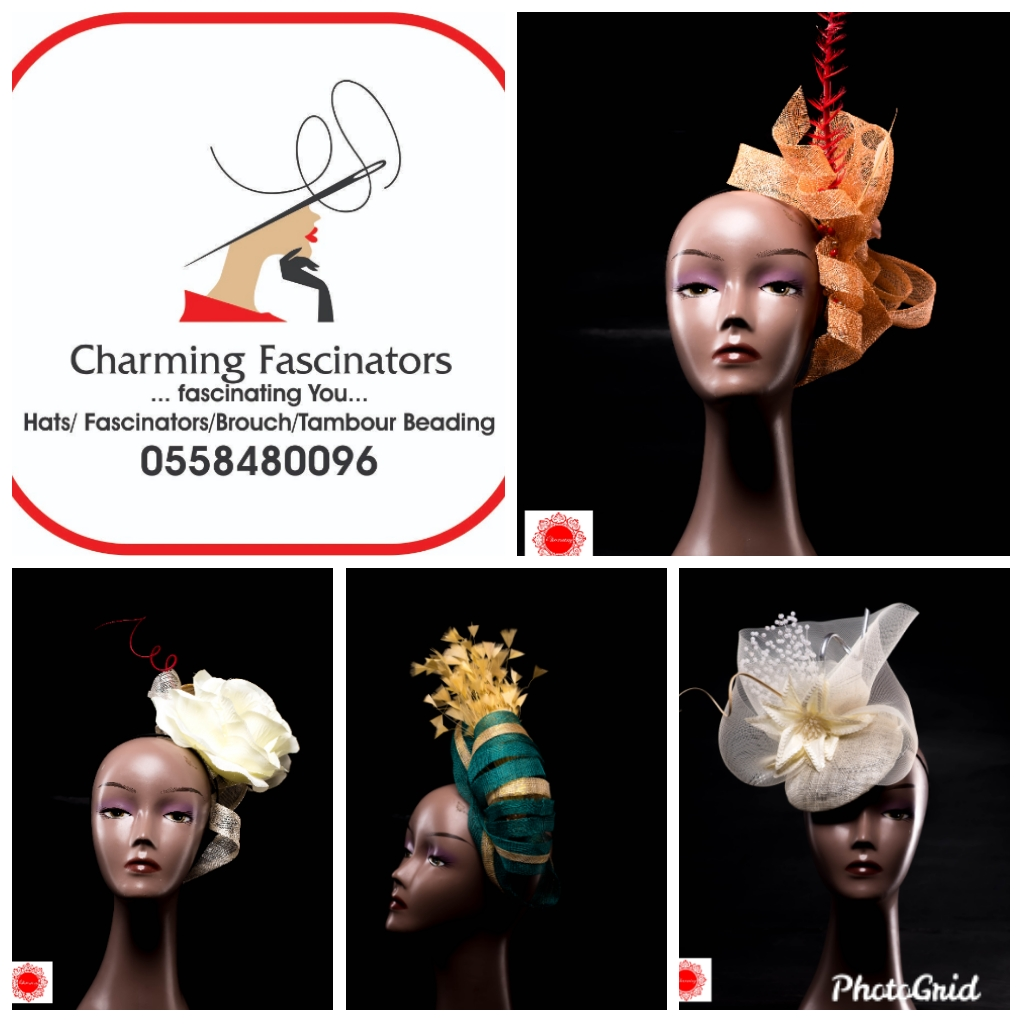
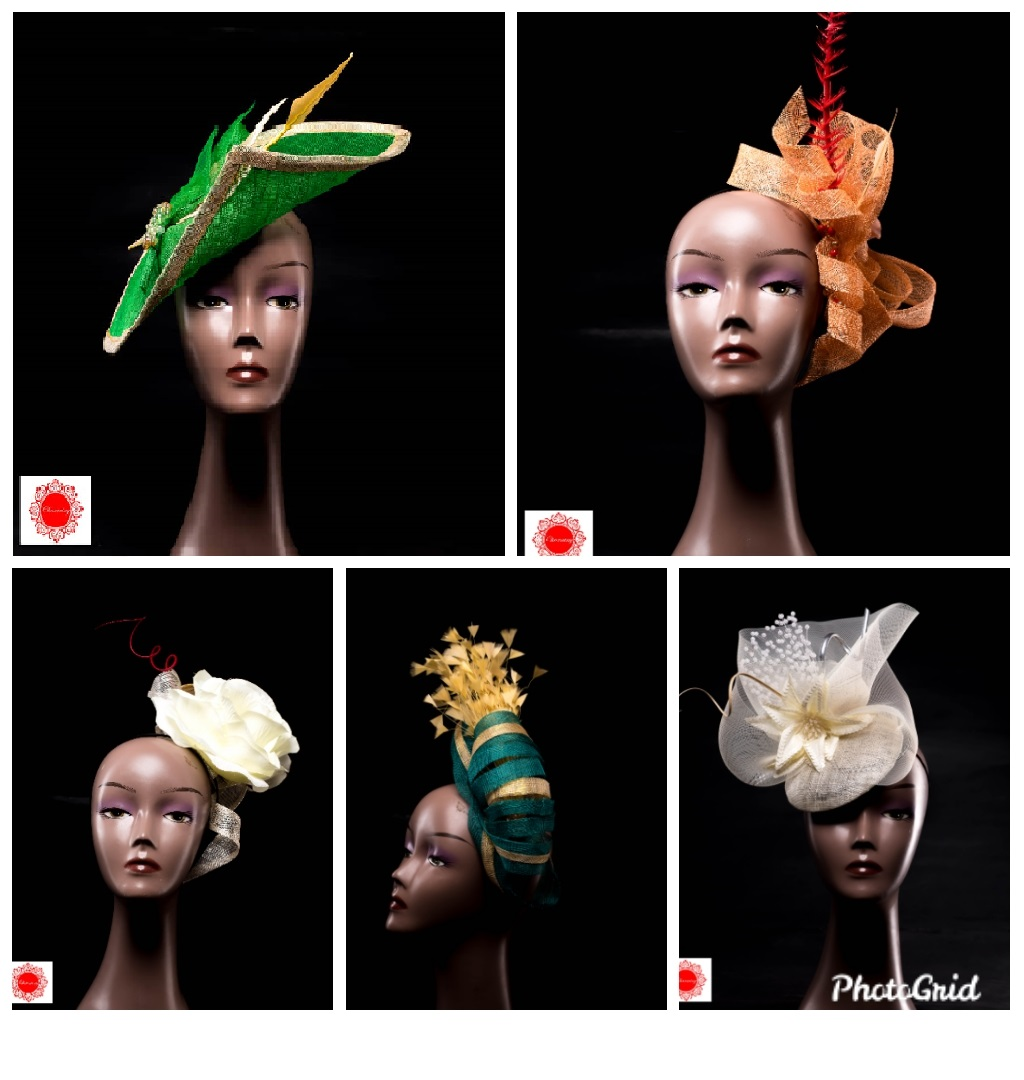
update

diff --git a/src/components/Content.vue b/src/components/Content.vue
@@ -1,5 +1,14 @@
 <template>
   <div class="main" data-spy="scroll" data-target="#navbarResponsive">
+    <loading
+      :active.sync="isLoading"
+      :can-cancel="false"
+      loader="dots"
+      :is-full-page="fullPage"
+      :height="height"
+      :width="width"
+      background-color="#6b6969"
+    ></loading>
     <!-- Start Home Section-->
     <div id="home">
       <!-- Navigation Bar-->
@@ -7,7 +16,8 @@
         <a class="navbar-logo" href="#">
           <img
             class="logo"
-            src="@/assets/pics/logo.jpg"
+            src="@/assets/pics/logo1.png"
+            style="width:60px; height:50px"
             alt="logo"
           />
         </a>
@@ -64,12 +74,12 @@
           <!-- Slide 1-->
           <div
             class="carousel-item active"
-            style="background-image: url(https://images.pexels.com/photos/2952204/pexels-photo-2952204.jpeg?auto=compress&cs=tinysrgb&dpr=1&w=500);"
+            :style="{'background-image':'url('+ require('../assets/pics/img009.png') + ')','background-size':'contain'}"
           >
             <div class="carousel-caption ">
-              <h1>Welcome To <br />Charming Fashion</h1>
-              <h3>Everything fashion and More</h3>
-              <a class="btn-lg" href="#project">Click for More</a>
+              <h1>Welcome To <br />Charming Fascinators</h1>
+              <h3>Everything Millinery and More</h3>
+              <a class="btn-lg" href="https://instagram.com/charming_fascinators?igshid=vu79aab7ur2w">Click for More</a>
             </div>
           </div>
           <!-- Slide 2-->
@@ -90,7 +100,7 @@
             class="carousel-four"
             style="background-image: url(https://images.pexels.com/photos/1436328/pexels-photo-1436328.jpeg?auto=compress&cs=tinysrgb&dpr=1&w=500);"
           ></div>
-        </div>
+        </div> 
         <!-- End of Carousel Inner-->
 
         <!-- Prev and Next Buttons-->
@@ -112,8 +122,8 @@
           <span class="carousel-control-next-icon" aria-hidden="true"></span>
         </a>
       </div>
-     -->
-      <!-- End of Slide show-->
+     
+      !-- End of Slide show-->
     </div>
 
     <!--End Home Section-->
@@ -121,11 +131,11 @@
     <!--Start Project Section-->
     <div id="project" class="offset">
       <div class="col-12 narrow text-center">
-        <h1>Charming Fashion</h1>
-        <p class="lead">African fashion showcase</p>
+        <h1>Charming Fascinators</h1>
+        <p class="lead">Choose from our wide range of hats, beaded tiaras, hair bands etc.</p>
         <a
           class="btn btn-secondary btn-md"
-          href="https://www.pexels.com/search/african%20fashion/"
+          href="https://instagram.com/charming_fascinators?igshid=vu79aab7ur2w"
           target="_blank"
           >Check it out. It's Free!!!</a
         >
@@ -145,11 +155,11 @@
           <div class="col-sm-4">
             <div class="portfolio">
               <a
-                href="https://images.pexels.com/photos/3276685/pexels-photo-3276685.jpeg?auto=compress&cs=tinysrgb&dpr=1&w=500"
+                href="/img/img08.312ccb8b.jpeg"
                 target="_parent"
               >
                 <img
-                  src="https://images.pexels.com/photos/3276685/pexels-photo-3276685.jpeg?auto=compress&cs=tinysrgb&dpr=1&w=500"
+                  src="../assets/pics/img08.jpeg"
                   alt="sample"
                 />
               </a>
@@ -159,11 +169,11 @@
           <div class="col-sm-4">
             <div class="portfolio">
               <a
-                href="https://images.pexels.com/photos/949671/pexels-photo-949671.jpeg?auto=compress&cs=tinysrgb&dpr=1&w=500"
+                href="/img/img03.02f00ab6.jpeg"
                 target="_parent"
               >
                 <img
-                  src="https://images.pexels.com/photos/949671/pexels-photo-949671.jpeg?auto=compress&cs=tinysrgb&dpr=1&w=500"
+                  src="../assets/pics/img03.jpeg"
                   alt="sample"
                 />
               </a>
@@ -173,11 +183,11 @@
           <div class="col-sm-4">
             <div class="portfolio">
               <a
-                href="https://images.pexels.com/photos/2170387/pexels-photo-2170387.jpeg?auto=compress&cs=tinysrgb&dpr=1&w=500"
+                href="/img/img04.e32c5b89.jpeg"
                 target="_parent"
               >
                 <img
-                  src="https://images.pexels.com/photos/2170387/pexels-photo-2170387.jpeg?auto=compress&cs=tinysrgb&dpr=1&w=500"
+                  src="../assets/pics/img04.jpeg"
                   alt="sample"
                 />
               </a>
@@ -187,11 +197,11 @@
           <div class="col-sm-4">
             <div class="portfolio">
               <a
-                href="https://images.pexels.com/photos/3195980/pexels-photo-3195980.jpeg?auto=compress&cs=tinysrgb&dpr=1&w=500"
+                href="/img/img1.af9c3a7b.jpeg"
                 target="_parent"
               >
                 <img
-                  src="https://images.pexels.com/photos/3195980/pexels-photo-3195980.jpeg?auto=compress&cs=tinysrgb&dpr=1&w=500"
+                  src="../assets/pics/img1.jpeg"
                   alt="sample"
                 />
               </a>
@@ -201,11 +211,11 @@
           <div class="col-sm-4">
             <div class="portfolio">
               <a
-                href="https://images.pexels.com/photos/2994574/pexels-photo-2994574.jpeg?auto=compress&cs=tinysrgb&dpr=1&w=500"
+                href="/img/img-6.bd3e0c06.jpeg"
                 target="_parent"
               >
                 <img
-                  src="https://images.pexels.com/photos/2994574/pexels-photo-2994574.jpeg?auto=compress&cs=tinysrgb&dpr=1&w=500"
+                  src="../assets/pics/img-6.jpeg"
                   alt="sample"
                 />
               </a>
@@ -215,11 +225,11 @@
           <div class="col-sm-4">
             <div class="portfolio">
               <a
-                href="https://images.pexels.com/photos/908310/pexels-photo-908310.jpeg?auto=compress&cs=tinysrgb&dpr=1&w=500"
+                href="/img/img09.86725611.jpeg"
                 target="_parent"
               >
                 <img
-                  src="https://images.pexels.com/photos/908310/pexels-photo-908310.jpeg?auto=compress&cs=tinysrgb&dpr=1&w=500"
+                  src="../assets/pics/img09.jpeg"
                   alt="sample"
                 />
               </a>
@@ -229,11 +239,11 @@
           <div class="col-sm-4">
             <div class="portfolio">
               <a
-                href="https://images.pexels.com/photos/952629/pexels-photo-952629.jpeg?auto=compress&cs=tinysrgb&dpr=1&w=500"
+                href="/img/img07.15e30708.jpeg"
                 target="_parent"
               >
                 <img
-                  src="https://images.pexels.com/photos/952629/pexels-photo-952629.jpeg?auto=compress&cs=tinysrgb&dpr=1&w=500"
+                  src="../assets/pics/img07.jpeg"
                   alt="sample"
                 />
               </a>
@@ -243,11 +253,11 @@
           <div class="col-sm-4">
             <div class="portfolio">
               <a
-                href="https://images.pexels.com/photos/2873674/pexels-photo-2873674.jpeg?auto=compress&cs=tinysrgb&dpr=1&w=500"
+                href="/img/img3.d647625a.jpeg"
                 target="_parent"
               >
                 <img
-                  src="https://images.pexels.com/photos/2873674/pexels-photo-2873674.jpeg?auto=compress&cs=tinysrgb&dpr=1&w=500"
+                  src="../assets/pics/img3.jpeg"
                   alt="sample"
                 />
               </a>
@@ -257,11 +267,11 @@
           <div class="col-sm-4">
             <div class="portfolio">
               <a
-                href="https://images.pexels.com/photos/2562497/pexels-photo-2562497.jpeg?auto=compress&cs=tinysrgb&dpr=1&w=500"
+                href="/img/img02.65c1fbac.jpeg"
                 target="_parent"
               >
                 <img
-                  src="https://images.pexels.com/photos/2562497/pexels-photo-2562497.jpeg?auto=compress&cs=tinysrgb&dpr=1&w=500"
+                  src="../assets/pics/img02.jpeg"
                   alt="sample"
                 />
               </a>
@@ -273,7 +283,7 @@
               <p class="lead">Want to order any of our products?</p>
               <a
                 class="btn btn-secondary btn-md"
-                href="https://www.google.com"
+                href="https://instagram.com/charming_fascinators?igshid=vu79aab7ur2w"
                 target="_blank"
                 >Products</a
               >
@@ -299,12 +309,12 @@
           <div class="card text-center">
             <img
               class="card-img-top"
-              src="https://images.pexels.com/photos/2395921/pexels-photo-2395921.jpeg?auto=compress&cs=tinysrgb&dpr=1&w=500"
+              src="../assets/pics/img-2.jpeg"
               alt="dress"
             />
             <div class="card-body">
-              <h4>Lady in beautiful dress</h4>
-              <p>If you like what you see, call us now</p>
+              <h4>Beautiful fascinator for all occasions</h4>
+              <p>Place your order now</p>
             </div>
           </div>
         </div>
@@ -313,12 +323,12 @@
           <div class="card text-center">
             <img
               class="card-img-top"
-              src="https://images.pexels.com/photos/2704172/pexels-photo-2704172.jpeg?auto=compress&cs=tinysrgb&dpr=1&w=500"
+              src="../assets/pics/img2.jpeg"
               alt="dress"
             />
             <div class="card-body">
-              <h4>Lady in beautiful yellow dress</h4>
-              <p>If you like what you see, contact at us now</p>
+              <h4>Lady in beautiful fascinator</h4>
+              <p>If you like what you see, contact us now</p>
             </div>
           </div>
         </div>
@@ -334,15 +344,16 @@
           <div class="col-md-5" text-center>
             <img
               class="logo-foot"
-              src="https://lh3.googleusercontent.com/y3yu5xC2LIuuBW07AvBzsk8csQwmtkc6JGYfPZs4GaUnLbEh8LwOOC8k-kV_nqqIdmdsOA=s123"
+              src="@/assets/pics/logo1.png"
+            style="width:100px; height:100px"
               alt="logo"
             />
-            <p>Discover amazing collections of women's clothes.</p>
+            <p>Customized fascinators, beaded tiaras, hair bands and many more</p>
             <strong>Contact Us</strong>
             <p>
-              0507730300 <br />
-              0246674425 <br />
-              fashioncentral@gmail.com
+             <a href="tel:0558480096"> 0558480096 </a><br />
+             <a href="tel:0207324350"> 0207324350 </a><br />
+             <a href="mailto:callonjayb@gmail.com"> callonjayb@gmail.com</a>
             </p>
             <p>
               <a href="https://www.facebook.com/" target="_blank"
@@ -351,7 +362,7 @@
               <a href="https://www.twitter.com/" target="_blank"
                 ><i class="fab fa-twitter-square"></i>
               </a>
-              <a href="https://www.instagram.com/" target="_blank"
+              <a href="https://instagram.com/charming_fascinators?igshid=vu79aab7ur2w" target="_blank"
                 ><i class="fab fa-instagram"></i>
               </a>
             </p>
@@ -359,7 +370,7 @@
 
           <hr class="seal" />
           <p>
-            &copy; 2020 Charming Milnery. All rights reserved.
+            &copy; {{ date }} Charming Milnery. All rights reserved.
           </p>
         </div>
         <!--End of Row-->
@@ -370,10 +381,42 @@
 </template>
 
 <script>
+import Loading from "vue-loading-overlay";
+import "vue-loading-overlay/dist/vue-loading.css";
+import axios from "axios";
+
 export default {
   name: 'main',
-  props: {
-    msg: String
+   components: {
+    Loading
+   },
+  data (){
+    return{
+      isLoading: false,
+       height: 128,
+      width: 128,
+      date: new Date().getFullYear()
+    }
+  },
+   methods: {
+    getHubs() {
+      this.isLoading = true;
+      axios
+        .get(
+          "https://c3fymja220.execute-api.us-east-1.amazonaws.com/prod/all/hubs"
+        )
+        .then(res => {
+          this.searchData = res.data;
+          this.data = this.searchData;
+          this.isLoading = false;
+        })
+        // .catch(err => {
+        //   this.isLoading = false;
+        // });
+    }
+  },
+  created() {
+    this.getHubs();
   }
 }
 </script>

diff --git a/public/index.html b/public/index.html
@@ -1,17 +1,33 @@
 <!DOCTYPE html>
 <html lang="en">
-  <head>
-    <meta charset="utf-8">
-    <meta http-equiv="X-UA-Compatible" content="IE=edge">
-    <meta name="viewport" content="width=device-width,initial-scale=1.0">
-    <link rel="icon" href="<%= BASE_URL %>favicon.ico">
-    <title><%= htmlWebpackPlugin.options.title %></title>
-  </head>
-  <body>
-    <noscript>
-      <strong>We're sorry but <%= htmlWebpackPlugin.options.title %> doesn't work properly without JavaScript enabled. Please enable it to continue.</strong>
-    </noscript>
-    <div id="app"></div>
-    <!-- built files will be auto injected -->
-  </body>
+
+<head>
+  <meta charset="utf-8">
+  <meta http-equiv="X-UA-Compatible" content="IE=edge">
+  <meta name="viewport" content="width=device-width,initial-scale=1.0">
+  <link rel="icon" href="<%= BASE_URL %>favicon.ico">
+  <link rel="stylesheet" href="https://stackpath.bootstrapcdn.com/bootstrap/4.5.0/css/bootstrap.min.css"
+    integrity="sha384-9aIt2nRpC12Uk9gS9baDl411NQApFmC26EwAOH8WgZl5MYYxFfc+NcPb1dKGj7Sk" crossorigin="anonymous">
+  <link href="https://fonts.googleapis.com/css?family=Lobster&display=swap" rel="stylesheet" />
+  <script src="https://code.jquery.com/jquery-3.5.1.slim.min.js"
+    integrity="sha384-DfXdz2htPH0lsSSs5nCTpuj/zy4C+OGpamoFVy38MVBnE+IbbVYUew+OrCXaRkfj" crossorigin="anonymous">
+  </script>
+  <script src="https://cdn.jsdelivr.net/npm/popper.js@1.16.0/dist/umd/popper.min.js"
+    integrity="sha384-Q6E9RHvbIyZFJoft+2mJbHaEWldlvI9IOYy5n3zV9zzTtmI3UksdQRVvoxMfooAo" crossorigin="anonymous">
+  </script>
+  <script src="https://stackpath.bootstrapcdn.com/bootstrap/4.5.0/js/bootstrap.min.js"
+    integrity="sha384-OgVRvuATP1z7JjHLkuOU7Xw704+h835Lr+6QL9UvYjZE3Ipu6Tp75j7Bh/kR0JKI" crossorigin="anonymous">
+  </script>
+  <title><%= htmlWebpackPlugin.options.title %></title>
+</head>
+
+<body>
+  <noscript>
+    <strong>We're sorry but <%= htmlWebpackPlugin.options.title %> doesn't work properly without JavaScript enabled.
+      Please enable it to continue.</strong>
+  </noscript>
+  <div id="app"></div>
+  <!-- built files will be auto injected -->
+</body>
+
 </html>

diff --git a/src/App.vue b/src/App.vue
@@ -1,5 +1,6 @@
 <template>
   <div id="app">
+      
     <Content />
   </div>
 </template>
